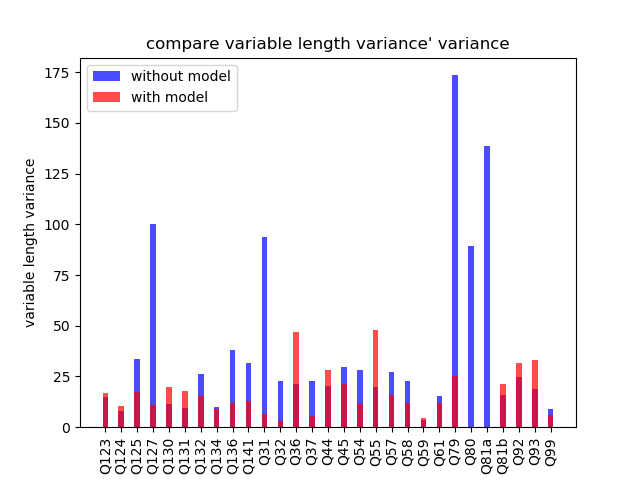
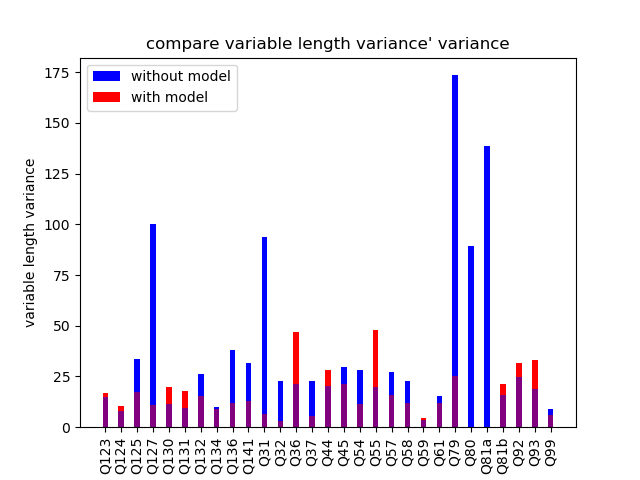
small cahnges in graphs colors

Changed region(s): [[0.1562, 0.1562, 0.875, 0.9688], [0.125, 0.125, 0.1875, 0.2188]]

diff --git a/results_analysis_scripts/plot_mean_var.py b/results_analysis_scripts/plot_mean_var.py
@@ -7,9 +7,13 @@ import matplotlib.pyplot as plt
 def plot_bars(old_data, new_data, ylabel, title, fig_name):
     index = np.arange(len(old_data))
     bar_width = 0.35
+    mins = [min(i, j) for i , j in zip(old_data, new_data)]
+
     fig, ax = plt.subplots()
-    ax.bar(index, old_data, bar_width, label="without model", alpha=0.7, color='blue')
-    ax.bar(index, new_data, bar_width, label="with model", alpha=0.7, color='red')
+
+    ax.bar(index, old_data, bar_width, label="without model", color="blue")
+    ax.bar(index, new_data, bar_width, label="with model", color="red")
+    ax.bar(index, mins, bar_width, color="purple")
 
     ax.set_xlabel('qustions')
     ax.set_ylabel(ylabel)

diff --git a/results_analysis_scripts/plot_mean_var_lengths.py b/results_analysis_scripts/plot_mean_var_lengths.py
@@ -8,8 +8,11 @@ def plot_bars(old_data, new_data, ylabel, title, fig_name):
     index = np.arange(len(old_data))
     bar_width = 0.35
     fig, ax = plt.subplots()
-    ax.bar(index, old_data, bar_width, label="without model", alpha=0.7, color='blue')
-    ax.bar(index, new_data, bar_width, label="with model", alpha=0.7, color='red')
+
+    mins = [min(i, j) for i , j in zip(old_data, new_data)]
+    ax.bar(index, old_data, bar_width, label="without model", color="blue")
+    ax.bar(index, new_data, bar_width, label="with model", color="red")
+    ax.bar(index, mins, bar_width, color="purple")
 
     ax.set_xlabel('qustions')
     ax.set_ylabel(ylabel)
